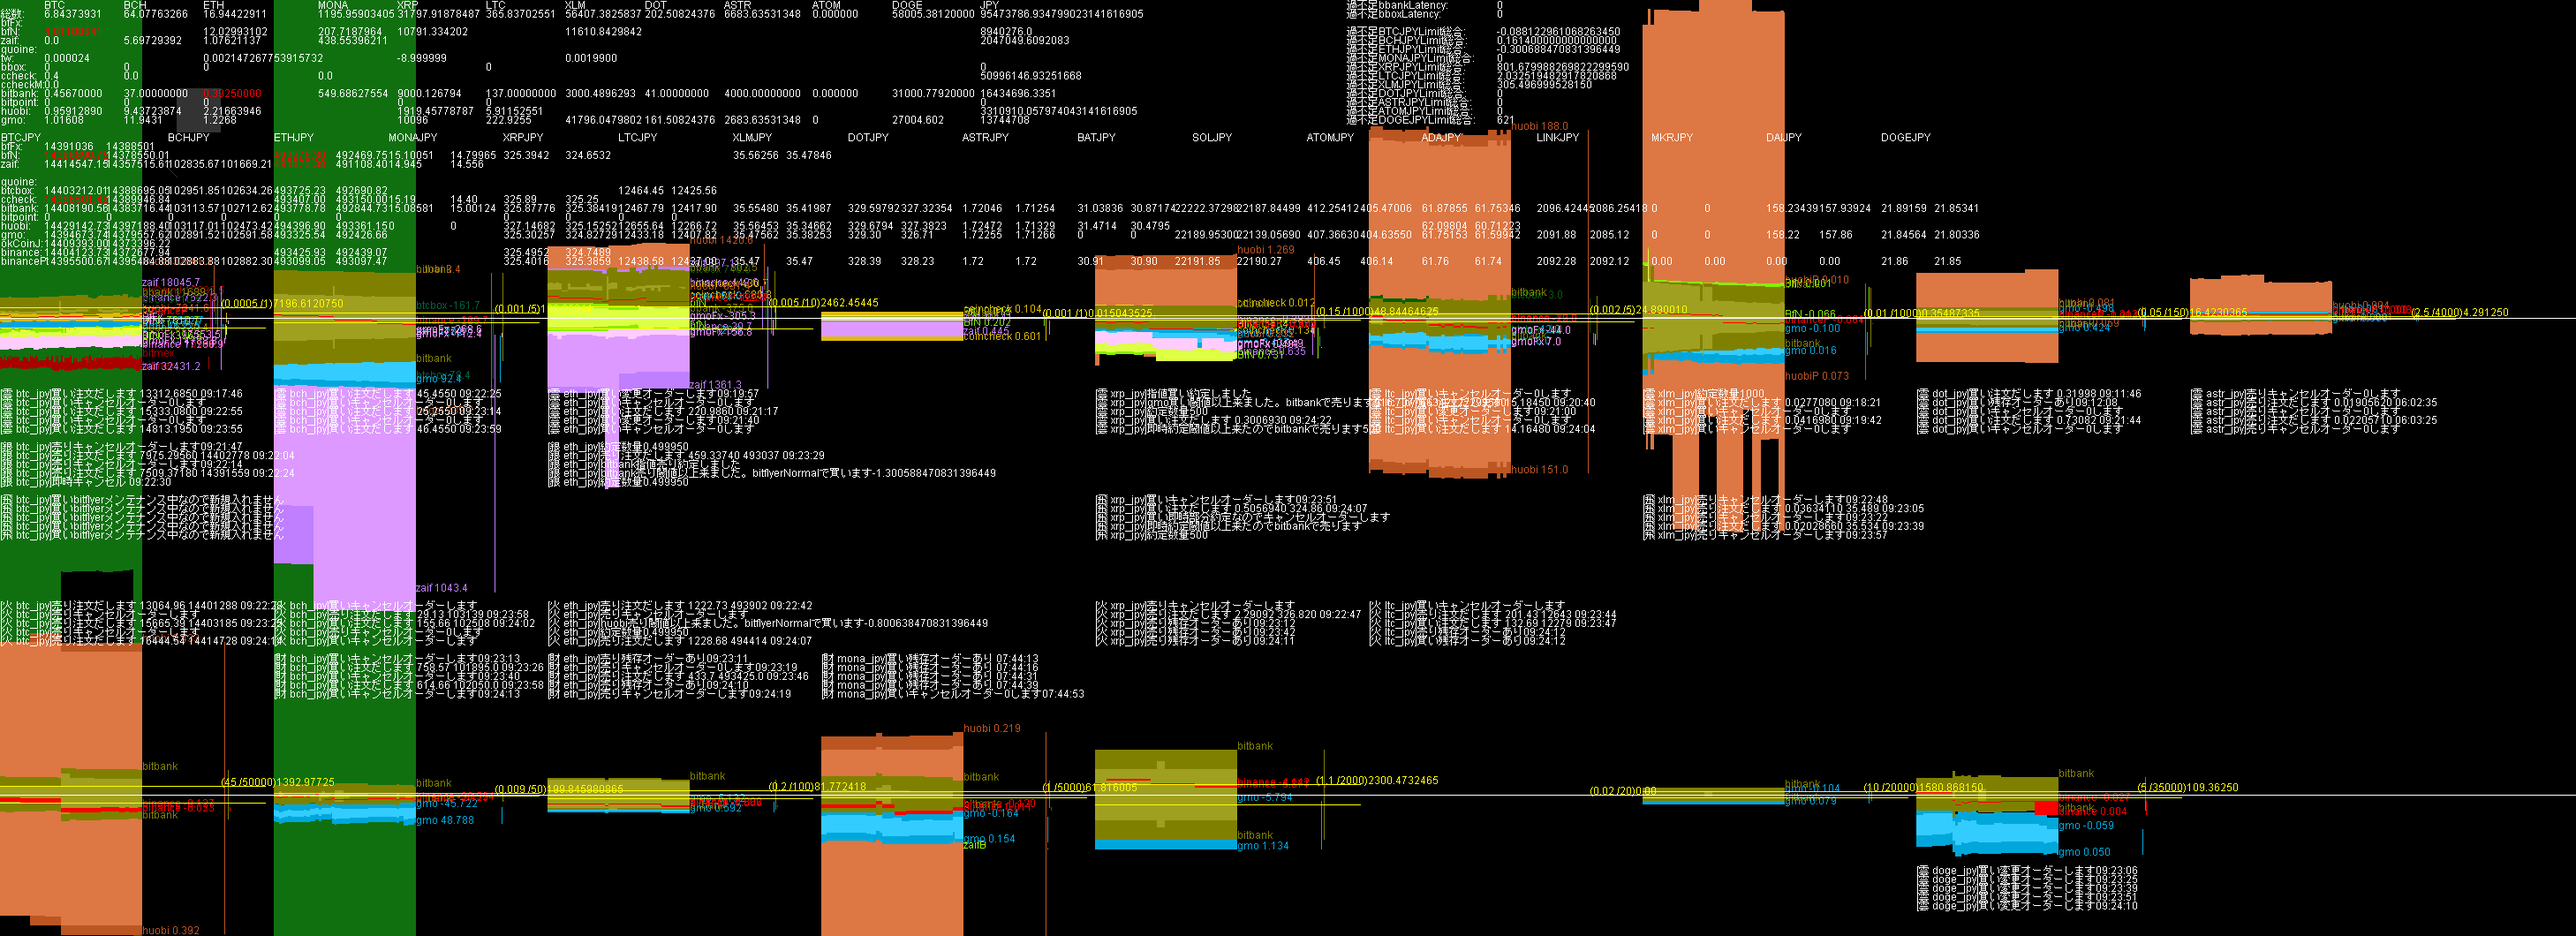
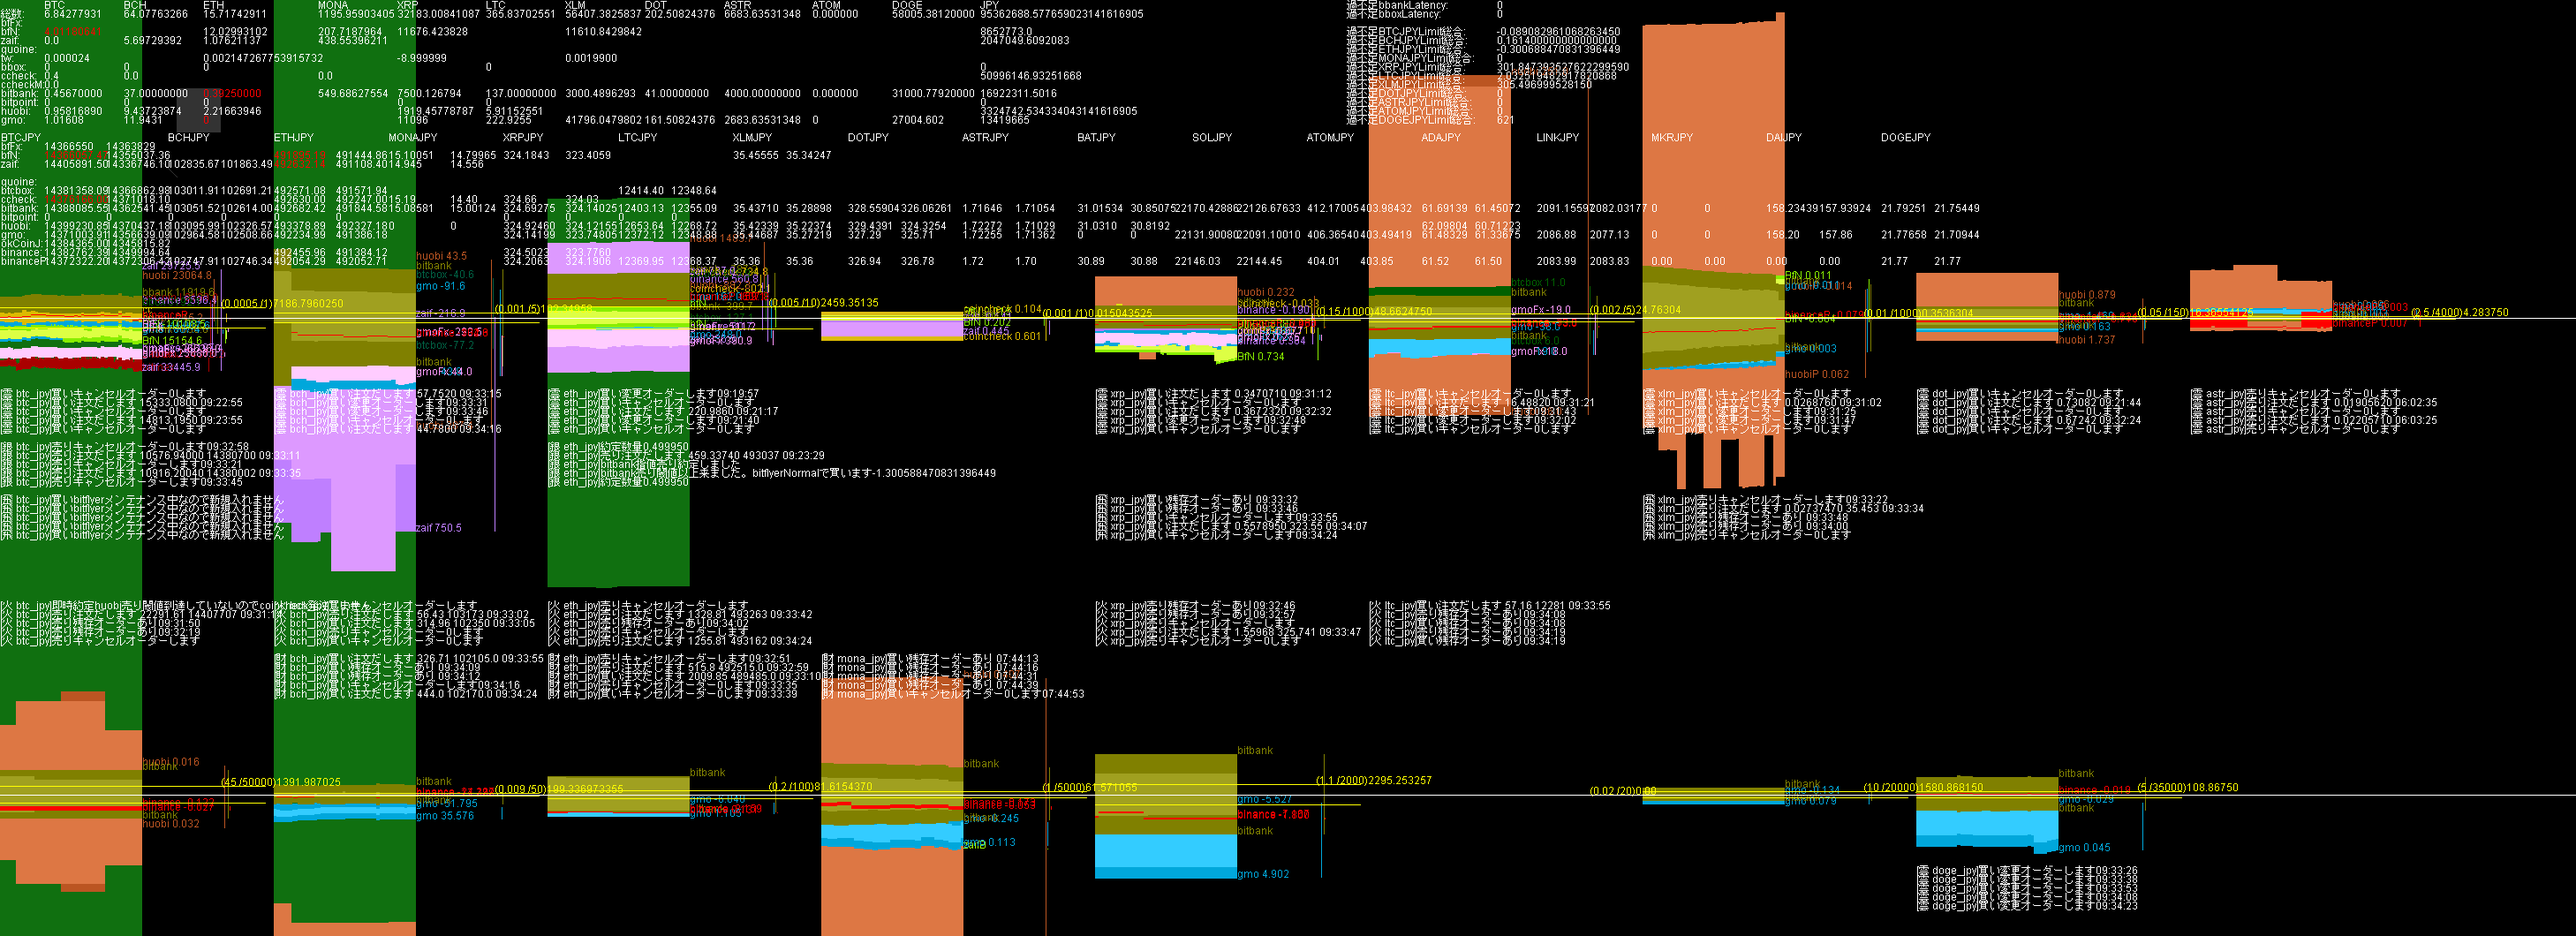
Update HTML file via Java

diff --git a/ca.html b/ca.html
@@ -16,6 +16,9 @@ th { background-color: #222; text-align: center; }
     <tr><th>ddhhmm</th><th>bfJPY</th><th>財JPY</th><th>ccJPY</th><th>銀JPY</th><th>火JPY</th><th>雲JPY</th><th>bfBTC</th><th>財BTC</th><th>ccBTC</th><th>銀BTC</th><th>火BTC</th><th>雲BTC</th><th>bfBCH</th><th>財BCH</th><th>ccBCH</th><th>銀BCH</th><th>火BCH</th><th>雲BCH</th><th>bfETH</th><th>財ETH</th><th>ccETH</th><th>銀ETH</th><th>火ETH</th><th>雲ETH</th><th>bfMONA</th><th>財MONA</th><th>ccMONA</th><th>銀MONA</th><th>火MONA</th><th>雲MONA</th><th>bfXRP</th><th>財XRP</th><th>ccXRP</th><th>銀XRP</th><th>火XRP</th><th>雲XRP</th><th>bfLTC</th><th>財LTC</th><th>ccLTC</th><th>銀LTC</th><th>火LTC</th><th>雲LTC</th><th>bfXLM</th><th>財XLM</th><th>ccXLM</th><th>銀XLM</th><th>火XLM</th><th>雲XLM</th><th>bfDOT</th><th>財DOT</th><th>ccDOT</th><th>銀DOT</th><th>火DOT</th><th>雲DOT</th><th>bfASTR</th><th>財ASTR</th><th>ccASTR</th><th>銀ASTR</th><th>火ASTR</th><th>雲ASTR</th><th>bfDOGE</th><th>財DOGE</th><th>ccDOGE</th><th>銀DOGE</th><th>火DOGE</th><th>雲DOGE</th>    </tr>  </thead>
   <tbody>
     <tr>
+<td>120934</td><td>00865</td><td>00204</td><td>05099</td><td>01692</td><td>00332</td><td>01341</td><td><span style="color: #4169e1">04.01</span></td><td>00.00</td><td><span style="color: #ff69b4">00.40</span></td><td>00.46</td><td>00.96</td><td>01.02</td><td>00.00</td><td>05.70</td><td>00.00</td><td>37.00</td><td>09.44</td><td>11.94</td><td>12.03</td><td>01.08</td><td>00.00</td><td><span style="color: #ff69b4">00.39</span></td><td>02.22</td><td><span style="color: #ff69b4">00.00</span></td><td>0207.7</td><td>0438.6</td><td>0000.0</td><td>0549.7</td><td>0000.0</td><td>0000.0</td><td>11676</td><td>00000</td><td>00000</td><td>07500</td><td>01919</td><td>11096</td><td>00.00</td><td>00.00</td><td>00.00</td><td>137.00</td><td>05.91</td><td>222.93</td><td>00.00</td><td>00.00</td><td>00.00</td><td>3000.49</td><td>00.00</td><td>41796.05</td><td>00.00</td><td>00.00</td><td>00.00</td><td>41.00</td><td>00.00</td><td>161.51</td><td>00.00</td><td>00.00</td><td>00.00</td><td>4000.00</td><td>00.00</td><td>2683.64</td><td>00.00</td><td>00.00</td><td>00.00</td><td>31000.78</td><td>00.00</td><td>27004.60</td>
+    </tr>
+    <tr>
 <td>120924</td><td>00894</td><td>00204</td><td>05099</td><td>01659</td><td>00331</td><td>01374</td><td><span style="color: #4169e1">04.01</span></td><td>00.00</td><td><span style="color: #ff69b4">00.40</span></td><td>00.46</td><td>00.96</td><td>01.02</td><td>00.00</td><td>05.70</td><td>00.00</td><td>37.00</td><td>09.44</td><td>11.94</td><td>12.03</td><td>01.08</td><td>00.00</td><td><span style="color: #ff69b4">00.39</span></td><td>02.22</td><td>01.23</td><td>0207.7</td><td>0438.6</td><td>0000.0</td><td>0549.7</td><td>0000.0</td><td>0000.0</td><td>10791</td><td>00000</td><td>00000</td><td>08500</td><td>01919</td><td>10096</td><td>00.00</td><td>00.00</td><td>00.00</td><td>137.00</td><td>05.91</td><td>222.93</td><td>00.00</td><td>00.00</td><td>00.00</td><td>3000.49</td><td>00.00</td><td>41796.05</td><td>00.00</td><td>00.00</td><td>00.00</td><td>41.00</td><td>00.00</td><td>161.51</td><td>00.00</td><td>00.00</td><td>00.00</td><td>4000.00</td><td>00.00</td><td>2683.64</td><td>00.00</td><td>00.00</td><td>00.00</td><td>31000.78</td><td>00.00</td><td>27004.60</td>
     </tr>
     <tr>
